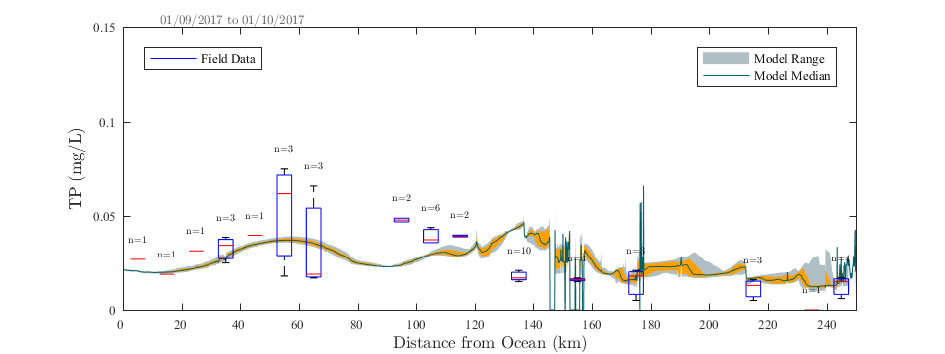
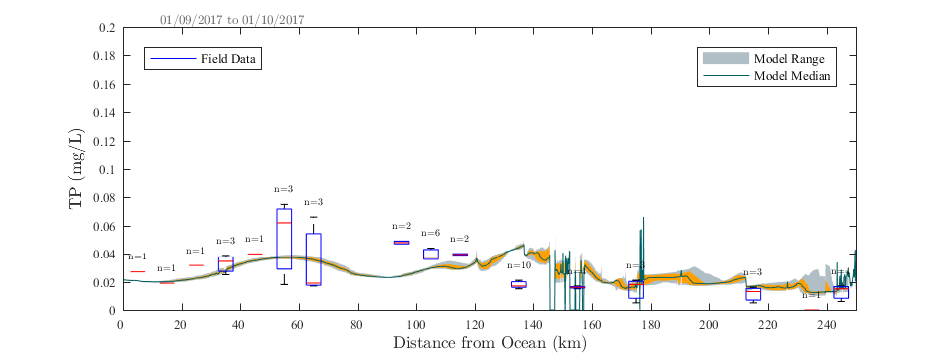
Updated transect plots

diff --git a/TUFLOWFV/transect_plot/transect_plot.m b/TUFLOWFV/transect_plot/transect_plot.m
@@ -1,27 +1,33 @@
-clear all; close all;
+function transect_plot(theStruct)
 
 addpath(genpath('tuflowfv'));
 
-ncfile = 'G:\Work Stuff\HN_Cal_2017_2018_2D_WQ.nc';
+ncfile = theStruct.ncfile;
 
-fielddata_matfile = '..\..\..\Hawkesbury\matlab\modeltools\matfiles\hawkesbury_all.mat';
-fielddata = 'hawkesbury_all';
+fielddata_matfile = theStruct.fielddata_matfile;
+fielddata = theStruct.fielddata;
 
-polygon_file = '..\..\..\Hawkesbury\gis\TransectPolygon_HN.shp';
+polygon_file = theStruct.polygon_file;
 
-polygon_line = '..\..\..\Hawkesbury\gis\Transectpnt_HN_100.shp';
+polygon_line = theStruct.polygon_line;
 
-varname = 'WQ_DIAG_TOT_TP';
-ylab = 'TP (mg/L)';
-conv = 31/1000;
+varname = theStruct.varname;
+ylab = theStruct.ylab;
+conv = theStruct.conv;
 
-xl = [0 250];
-yl = [0 0.3];
-offset = 0.01;
+xl = theStruct.xl;
+yl = theStruct.yl;
+offset = theStruct.offset;
 
-outname = 'TP_Plot_v2.png';
+outname = theStruct.outname;
+outdir = theStruct.outdir;
+daterange = theStruct.daterange;
 
-daterange = datenum(2017,09:10,01);
+if ~exist(outdir,'dir')
+    mkdir(outdir);
+end
+
+%________________________________________
 
 surface_edge_color = [ 30  50  53]./255;
 surface_face_color = [ 68 108 134]./255;
@@ -104,6 +110,8 @@ end
 fig1 = figure('position',[173         505        1597         420]);
 set(fig1,'defaultTextInterpreter','latex')
 set(0,'DefaultAxesFontName','Times')
+set(0,'DefaultAxesFontSize',6)
+
 ax = get(gca);
 
 fig = fillyy(pdata.dist,pdata.pred_lim_ts(1,:),pdata.pred_lim_ts(2*nn-1,:),dimc,col_pal(1,:));hold on
@@ -117,7 +125,7 @@ end
 
 plot(pdata.dist,pdata.pred_lim_ts(3,:),'color',median_line,'linewidth',0.5,'DisplayName','Model Median');
 leg = legend('show');
-set(leg,'location','NorthEast','fontsize',7);
+set(leg,'location','NorthEast','fontsize',6);
 
 %_________________________________________________________________________________________________________
 
@@ -140,7 +148,7 @@ for i = 1:length(fzone)
                 
                 if ~isempty(sss)
                     cdist = [];
-                    cdist(1:length(sss),1) = thedist - 5;
+                    cdist(1:length(sss),1) = thedist - theStruct.Polyoffset;
                     cdata = fdata.(sites{j}).(varname).Data(sss)*conv;
                     fielddata = [fielddata;cdata];
                     fielddist = [fielddist;cdist];
@@ -162,12 +170,13 @@ xlabs = [0:20:250];
 
 set(gca,'xtick',xlabs,'xticklabel',xlabs);
 
-xlabel('Distance from Ocean (km)');
-ylabel(ylab);
+xlabel('Distance from Ocean (km)','fontsize',8);
+ylabel(ylab,'fontsize',8);
 box_vars = findall(gca,'Tag','Box');
 
 
-text(0.1,1.05,[datestr(daterange(1),'dd/mm/yyyy'),' to ',datestr(daterange(end),'dd/mm/yyyy')],
+text(0.05,1.02,[datestr(daterange(1),'dd/mm/yyyy'),' to ',datestr(daterange(end),'dd/mm/yyyy')],'units','normalized',...
+    'fontsize',6,'color',[0.4 0.4 0.4]);
 
 xlim(xl);
 ylim(yl);
@@ -183,17 +192,23 @@ for i = 1:length(udist)
     mval = max(fielddata(sss));
     
     mval = mval + offset;
-    text(gca,udist(i),mval,['n=',num2str(length(sss))],'fontsize',8,'horizontalalignment','center');
+    text(gca,udist(i),mval,['n=',num2str(length(sss))],'fontsize',5,'horizontalalignment','center');
     end
 end
 ah1=axes('position',get(gca,'position'),'visible','off');
 
-hLegend = legend(ah1,box_vars([1]), {'Field Data'},'location','NorthWest','fontsize',7);
-saveas(gcf,outname);
+hLegend = legend(ah1,box_vars([1]), {'Field Data'},'location','NorthWest','fontsize',6);
 
-%close
+  set(gcf, 'PaperPositionMode', 'manual');
+        set(gcf, 'PaperUnits', 'centimeters');
+        xSize = 16;
+        ySize = 6;
+        xLeft = (21-xSize)/2;
+        yTop = (30-ySize)/2;
+        set(gcf,'paperposition',[0 0 xSize ySize])
 
 
 
+saveas(gcf,[outdir,outname]);
 
-
+close

diff --git a/TUFLOWFV/transect_plot/run_transect_plot.m b/TUFLOWFV/transect_plot/run_transect_plot.m
@@ -1,0 +1,76 @@
+clear all; close all;
+
+theStruct.ncfile = 'G:\Work Stuff\HN_Cal_2017_2018_2D_WQ.nc';
+
+theStruct.fielddata_matfile = '..\..\..\Hawkesbury\matlab\modeltools\matfiles\hawkesbury_all.mat';
+theStruct.fielddata = 'hawkesbury_all';
+
+theStruct.polygon_file = '..\..\..\Hawkesbury\gis\TransectPolygon_HN.shp';
+
+theStruct.polygon_line = '..\..\..\Hawkesbury\gis\Transectpnt_HN_100.shp';
+
+theStruct.varname = 'WQ_DIAG_TOT_TN';
+theStruct.ylab = 'TN (mg/L)';
+theStruct.conv = 14/1000;
+
+theStruct.xl = [0 250];
+theStruct.yl = [0 3];
+theStruct.offset = 0.1;
+
+theStruct.Polyoffset = 5;
+
+theStruct.outname = 'HN_V4_A5_Transect_TN.png';
+theStruct.outdir = 'D:\Cloud\Cloudstor\Shared\Aquatic Ecodynamics (AED)\AED_Hawkesbury\Model_Results\HN_Cal_v4_A5\Transect\';
+
+theStruct.daterange = datenum(2017,09:10,01);
+
+
+
+
+for i = 9:01:14
+    theStruct.daterange = datenum(2017,i:i+1,01);
+    
+    theStruct.outname = ['HN_V4_A5_Transect_TN_',datestr(theStruct.daterange(1),'yyyymmdd'),'_',datestr(theStruct.daterange(end),'yyyymmdd'),'.png'];
+    
+    transect_plot(theStruct);
+
+end
+
+
+%____________________________________________________________
+
+theStruct.ncfile = 'G:\Work Stuff\HN_Cal_2017_2018_2D_WQ.nc';
+
+theStruct.fielddata_matfile = '..\..\..\Hawkesbury\matlab\modeltools\matfiles\hawkesbury_all.mat';
+theStruct.fielddata = 'hawkesbury_all';
+
+theStruct.polygon_file = '..\..\..\Hawkesbury\gis\TransectPolygon_HN.shp';
+
+theStruct.polygon_line = '..\..\..\Hawkesbury\gis\Transectpnt_HN_100.shp';
+
+theStruct.varname = 'WQ_DIAG_TOT_TP';
+theStruct.ylab = 'TP (mg/L)';
+theStruct.conv = 31/1000;
+
+theStruct.xl = [0 250];
+theStruct.yl = [0 0.2];
+theStruct.offset = 0.01;
+
+theStruct.Polyoffset = 5;
+
+theStruct.outdir = 'D:\Cloud\Cloudstor\Shared\Aquatic Ecodynamics (AED)\AED_Hawkesbury\Model_Results\HN_Cal_v4_A5\Transect\';
+
+
+for i = 9:01:14
+    
+    theStruct.daterange = datenum(2017,i:i+1,01);
+    
+    theStruct.outname = ['HN_V4_A5_Transect_TP_',datestr(theStruct.daterange(1),'yyyymmdd'),'_',datestr(theStruct.daterange(end),'yyyymmdd'),'.png'];
+    
+    transect_plot(theStruct);
+
+end
+
+
+
+
